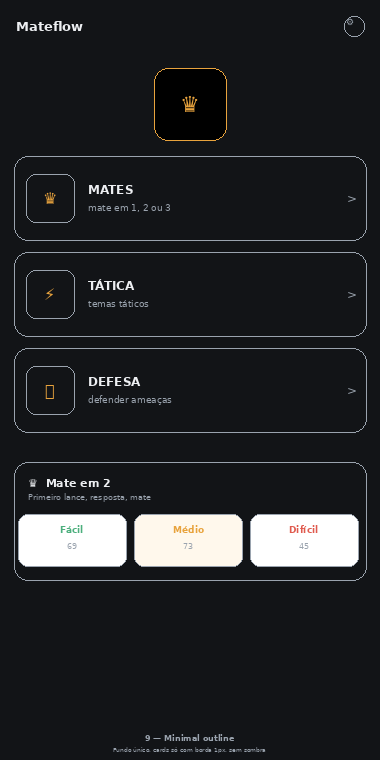
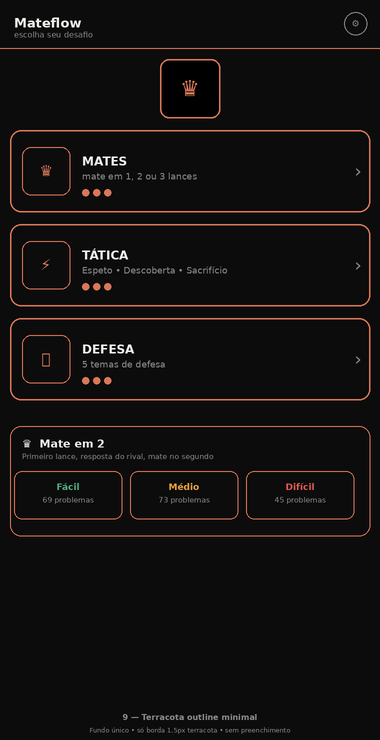
docs: 10 prévias navegação nítidas 2x inspiradas Terracota #D97757 e Bege #F2E8D6 do Taskix

diff --git a/docs/navegacao-10-layouts.html b/docs/navegacao-10-layouts.html
@@ -1,42 +1,41 @@
 <!DOCTYPE html>
 <html lang="pt-BR"><head><meta charset="UTF-8"><meta name="viewport" content="width=device-width,initial-scale=1">
-<title>Mateflow — 10 sugestões navegação</title>
+<title>Mateflow — 10 sugestões navegação (Terracota/Bege Taskix)</title>
 <style>
 *{margin:0;padding:0;box-sizing:border-box}
 body{font-family:system-ui,Manrope,sans-serif;background:#0b0d0f;color:#e8ebee;padding:20px 14px 60px}
 header{max-width:1100px;margin:0 auto 20px;text-align:center}
 header h1{font-size:24px;font-weight:800}
 header p{color:#9aa3ae;margin-top:8px;font-size:13px;line-height:1.5}
-header p b{color:#E8A33D}
-.nota{max-width:900px;margin:12px auto;padding:12px 16px;background:#1B1E23;border:1px solid #E8A33D;border-radius:12px;font-size:12px;color:#9aa3ae;text-align:center}
-.nota b{color:#EDEFF2}
+header p b{color:#D97757}
+.nota{max-width:900px;margin:12px auto;padding:12px 16px;background:#161617;border:1px solid #D97757;border-radius:12px;font-size:12px;color:#9aa3ae;text-align:center}
+.nota b{color:#F0EEE9}
 .grid{max-width:1100px;margin:18px auto;display:grid;grid-template-columns:repeat(auto-fit,minmax(300px,1fr));gap:18px}
 .card{background:#14171a;border:1px solid #23282d;border-radius:18px;padding:14px;display:flex;flex-direction:column;gap:10px}
 .card h2{font-size:13px;font-weight:800}
 .card h2 small{color:#9aa3ae;font-weight:600;font-size:11px}
 .card p{font-size:11px;color:#9aa3ae;line-height:1.5}
 .card p b{color:#e8ebee}
-.card img{width:100%;border-radius:14px;border:1px solid #23282d;background:#121417}
+.card img{width:100%;border-radius:14px;border:1px solid #23282d;background:#0C0C0D;image-rendering:-webkit-optimize-contrast}
 .badge{display:inline-block;font-size:10px;font-weight:800;padding:3px 8px;border-radius:20px}
-.sel{border-color:#E8A33D;box-shadow:0 0 0 1px #E8A33D}
 footer{max-width:700px;margin:30px auto 0;text-align:center;color:#9aa3ae;font-size:13px;line-height:1.6}
 </style></head><body>
 <header>
-<h1>Mateflow — 10 sugestões de navegação</h1>
-<p><b>SÓ navegação</b>: botões <b>Mate / Tática / Defesa</b> (tela inicial) + cards de <b>níveis</b> (Mate em 1/2/3) — <b>nada no tabuleiro</b> foi alterado.<br>Escolha 1 número ou combine (ex: “card da 5 com níveis da 2”).</p>
+<h1>Mateflow — 10 sugestões navegação</h1>
+<p>Inspirado no <b>Terracota #D97757</b> e no <b>Bege #F2E8D6/#E0D1B9</b> do Taskix — <b>nítidas 2× (760→380)</b><br><b>SÓ navegação</b>: botões <b>Mate / Tática / Defesa</b> + cards de <b>níveis</b> — <b>nada no tabuleiro</b>.</p>
 </header>
-<div class="nota"><b>Tabuleiro intacto</b> — estas são apenas prévias (não aplicadas). O APK atual segue com o tabuleiro original.</div>
+<div class="nota"><b>Tabuleiro intacto</b> — são só prévias (não aplicadas). Escolha 1 número ou “misturar”.</div>
 <div class="grid">
-<div class="card sel"><h2><span class="badge" style="background:#E8A33D;color:#111">1</span> Atual escuro âmbar <small>• referência</small></h2><img src="img/nav-01.png"><p>Fundo <b>#121417</b>, cards <b>#1B1E23</b>, acento <b>âmbar #E8A33D</b>. Seu tema atual — base para comparar.</p></div>
-<div class="card"><h2><span class="badge" style="background:#fff;color:#111">2</span> Preto & branco</h2><img src="img/nav-02.png"><p><b>Máximo contraste</b>, acento branco, níveis verde/amarelo/vermelho bem marcados.</p></div>
-<div class="card"><h2><span class="badge" style="background:#3B82F6;color:#fff">3</span> Azul royal</h2><img src="img/nav-03.png"><p>Fundo <b>navy</b>, cards azul-escuro, acento <b>#3B82F6</b>. Ar frio, torneio.</p></div>
-<div class="card"><h2><span class="badge" style="background:#4CAF7D;color:#111">4</span> Verde esmeralda</h2><img src="img/nav-04.png"><p>Verde xadrez clássico, acento esmeralda. Remete a tabuleiro de clube.</p></div>
-<div class="card"><h2><span class="badge" style="background:#A78BFA;color:#111">5</span> Roxo Mateflow</h2><img src="img/nav-05.png"><p>Roxo profundo <b>#150E1F</b>, acento lavanda <b>#A78BFA</b>. Elegante, premium.</p></div>
-<div class="card"><h2><span class="badge" style="background:#FF6B35;color:#111">6</span> Gradiente laranja</h2><img src="img/nav-06.png"><p>Cards com <b>topo degradê âmbar→laranja</b>, borda superior colorida nos níveis.</p></div>
-<div class="card"><h2><span class="badge" style="background:#00E5CC;color:#111">7</span> Néon ciano</h2><img src="img/nav-07.png"><p>Dark <b>#0B0E14</b> com <b>ciano néon #00E5CC</b>. Futurista, gamer.</p></div>
-<div class="card"><h2><span class="badge" style="background:#F2E8D6;color:#382E20">8</span> Claro papel</h2><img src="img/nav-08.png"><p>Fundo <b>bege #F2E8D6</b>, cards creme, texto marrom. Único tema claro.</p></div>
-<div class="card"><h2><span class="badge" style="background:#121417;color:#E8A33D;border:1px solid #9AA3AE">9</span> Minimal outline</h2><img src="img/nav-09.png"><p>Sem preenchimento, só <b>borda 1px</b>. Leve, sem sombras.</p></div>
-<div class="card"><h2><span class="badge" style="background:#E05A4E;color:#fff">10</span> Colorido por categoria</h2><img src="img/nav-10.png"><p>Cada card com cor própria: <b>Mate=vermelho, Tática=azul, Defesa=verde</b>.</p></div>
+<div class="card"><h2><span class="badge" style="background:#D97757;color:#120806">1</span> Terracota Taskix</h2><img src="img/nav-01.png"><p>Fundo <b>#0C0C0D</b>, cards <b>#161617</b> borda 1px <b>#2A2A2B</b>, acento <b>#D97757</b>, fonte mono. Igual ao tema Terracota do Taskix.</p></div>
+<div class="card"><h2><span class="badge" style="background:#B5652E;color:#FFF3E7">2</span> Bege Taskix</h2><img src="img/nav-02.png"><p>Fundo <b>#F2E8D6</b>, cards <b>#E0D1B9</b>, acento <b>#B5652E</b>. Igual ao Bege do Taskix — claro, papel.</p></div>
+<div class="card"><h2><span class="badge" style="background:#E0D1B9;color:#382E20;border:1px solid #D97757">3</span> Híbrido Terracota+Bege</h2><img src="img/nav-03.png"><p>Fundo preto-quente <b>#0C0C0D</b> + cards bege queimado. Contraste quente.</p></div>
+<div class="card"><h2><span class="badge" style="background:#FFF8EC;color:#382E20;border:1px solid #D97757">4</span> Bege claro terracota</h2><img src="img/nav-04.png"><p>Fundo creme <b>#FFF8EC</b>, cards branco, acento terracota vibrante.</p></div>
+<div class="card"><h2><span class="badge" style="background:#3B82F6;color:#fff">5</span> Terracota + azul níveis</h2><img src="img/nav-05.png"><p>Base terracota + níveis <b>azul/verde/vermelho</b>. Mantém identidade mas diferencia níveis.</p></div>
+<div class="card"><h2><span class="badge" style="background:#4A7C3F;color:#fff">6</span> Bege esmeralda</h2><img src="img/nav-06.png"><p>Base bege + acento <b>verde esmeralda #4A7C3F</b>. Remete a tabuleiro clássico.</p></div>
+<div class="card"><h2><span class="badge" style="background:#00E5CC;color:#111">7</span> Terracota néon ciano</h2><img src="img/nav-07.png"><p>Fundo preto-quente + grafite azulado + acento <b>ciano #00E5CC</b>. Futurista.</p></div>
+<div class="card"><h2><span class="badge" style="background:#3E2F1F;color:#F2E8D6">8</span> Bege escuro (dark wood)</h2><img src="img/nav-08.png"><p>Versão noturna do bege — madeira escura <b>#2B1E14</b> + âmbar <b>#E8A33D</b>.</p></div>
+<div class="card"><h2><span class="badge" style="background:#0C0C0D;color:#D97757;border:1px solid #D97757">9</span> Terracota outline minimal</h2><img src="img/nav-09.png"><p>Só <b>borda 1.5px terracota</b> sobre fundo preto. Minimal, sem preenchimento.</p></div>
+<div class="card"><h2><span class="badge" style="background:#8B5CF6;color:#fff">10</span> Bege + roxo Mateflow</h2><img src="img/nav-10.png"><p>Base bege + roxo lavanda <b>#8B5CF6</b>. Premium.</p></div>
 </div>
-<footer>Responda com o número — eu só aplico depois da sua escolha.<br>Link direto do APK atual (sem mudança no tabuleiro): <b>https://github.com/viniciostristao1/xadrez_mate/releases/latest/download/xadrez-mate.apk</b></footer>
+<footer>Responda com o número — só aplico depois da sua escolha.<br>APK atual (tabuleiro intacto): <b>https://github.com/viniciostristao1/xadrez_mate/releases/latest/download/xadrez-mate.apk</b></footer>
 </body></html>
